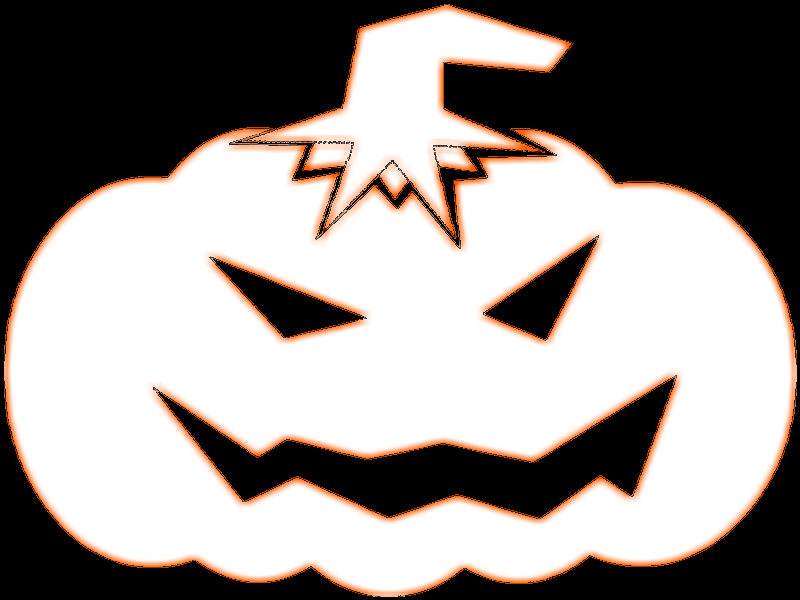
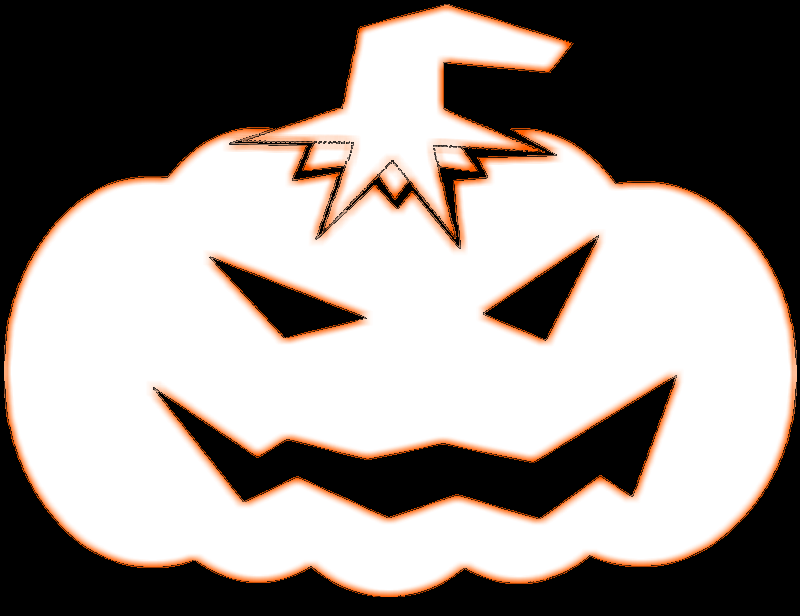
adding print stencil

diff --git a/app/styles/main.css b/app/styles/main.css
@@ -18,22 +18,36 @@ html {
 }
 .map {
 	width: 800px;
-	height: 600px;
+	height: 616px;
 
     position: absolute;
     top: 0;
     left: 0;
 }
+@media screen {
+    .stencil {
+        width: 800px;
+        height: 616px;
+        position: absolute;
+        top: 0;
+        left: 0;
+    }
 
-.stencil {
-    width: 800px;
-    height: 600px;
-
-    opacity: .85;
-
-    position: absolute;
-    top: 0;
-    left: 0;
+    .stencil-print {
+        display: none;
+    }
+}
+@media print {
+    .stencil {
+        display: none;
+    }
+    .stencil-print {
+        width: 800px;
+        height: 616px;
+        position: absolute;
+        top: 0;
+        left: 0;
+    }
 }
 
 .map-application {

diff --git a/app/scripts/main.js b/app/scripts/main.js
@@ -14,7 +14,7 @@
 	new L.tileLayer('http://{s}.sm.mapstack.stamen.com/($ff5f00[@p],(parks,$126600[source-in]),(mapbox-water,$00b688[source-in]),(terrain-lines,$99000f[source-in]),(terrain-labels,$662600[source-in])[soft-light])/{z}/{x}/{y}.png', {
 		minZoom: 0,
 		maxZoom: 18,
-		attribution: 'Tiles by Stamen Design, under CC-BY 3.0. Data © OpenStreetMap contributors, under CC-BY-SA. | Map data © <a href="http://www.openstreetmap.org">OpenStreetMap contributors</a>'
+		attribution: 'Tiles by <a href="http://stamen.com/">Stamen Design</a>, under CC-BY 3.0. Data © <a href="http://www.openstreetmap.org">OpenStreetMap contributors</a>'
 	}).addTo(map);
 
 }(window, document, L));

diff --git a/app/index.html b/app/index.html
@@ -26,6 +26,7 @@
 	<div class="map-application">
 		<div id="map" class="map"></div>
         <img id="stencil" class="stencil" src="images/pumpkin-stencil.png"/>
+        <img id="stencil-print" class="stencil-print" src="images/pumpkin-stencil-print.png"/>
 	</div>
 	 <!-- build:js scripts/vendor.js -->
 	 <script src="lib/scripts/leaflet.js"></script>
